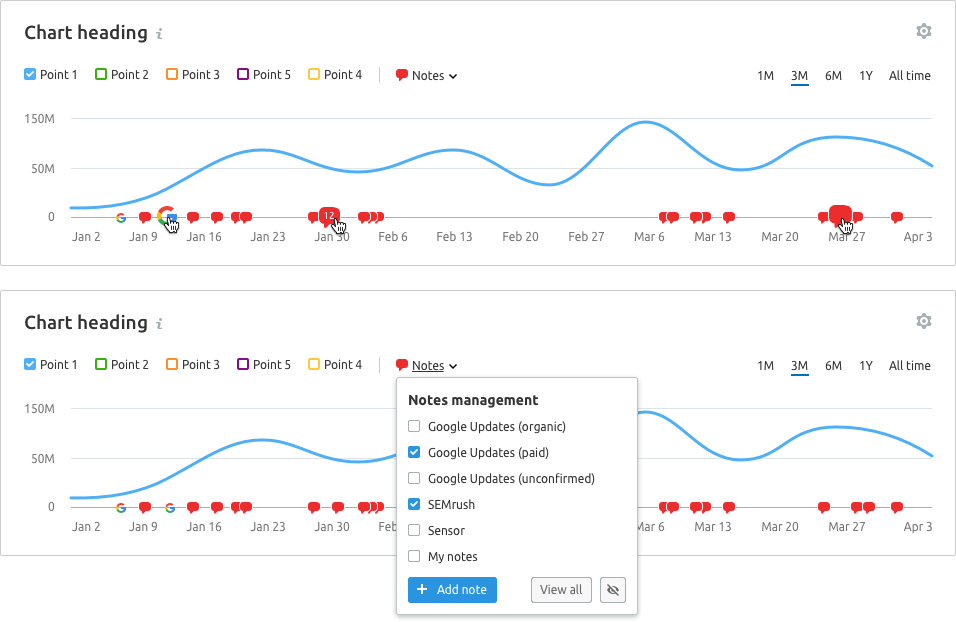
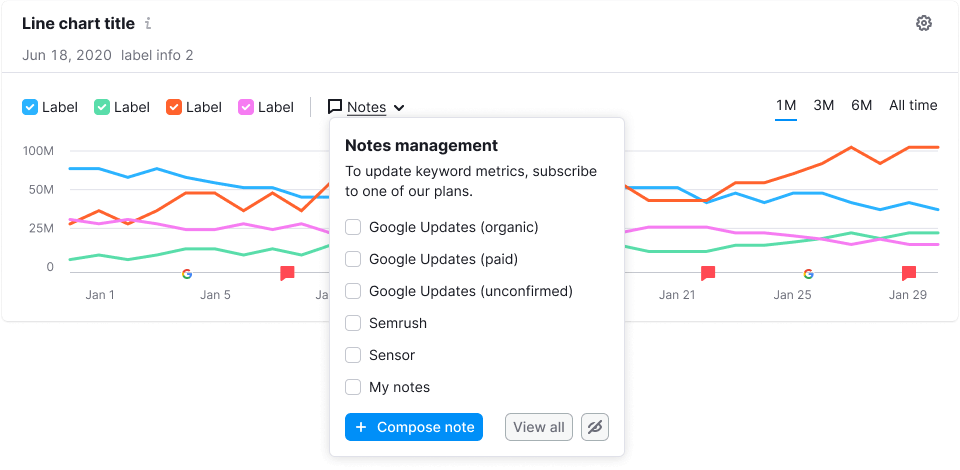
[website] update dropdown-menu and notes guide

diff --git a/website/docs/data-display/notes/notes.md b/website/docs/data-display/notes/notes.md
@@ -1,5 +1,5 @@
 ---
-title: Notes widget
+title: Notes module
 tabName: Design
 docs: true
 ---
@@ -8,44 +8,50 @@ docs: true
 
 @## Description
 
-**Notes** is a tool for creating notes and displaying them in charts.
+**Notes** is a module for creating notes and displaying them in charts.
 
 - Notes can be created by the user, system, or other services. You can make an unlimited number of notes for a single date.
-- It is recommended to place a control for managing notes above the chart — on the left side or right side depending on the context and the controls located next to it.
-- _In exceptional cases it is possible to place it under the graph._
+- We recommended you to place a trigger for managing notes above the chart.
+- _In exceptional cases place it under the chart._
 
 @## Appearance
 
-This tool has two types of being displayed.
+You can display the module in compact or advanced variant.
 
-**To mark notes, use:**
+@## Compact (in DropdownMenu)
 
-- `ChatXS` icon in color `--red` with a 1px white outline for user and system notes;
-- icon with the logo of the corresponding service with a white border 1px, if the note is generated by a third-party service.
-
-There may be a 10px counter inside the note icon, which is visible when you hover over the icon.
-
-@## Compact (in dropdown menu)
-
-In this form, all Notes settings are hidden in the dropdown menu, where you can enable/disable the display of notes on the chart, add a note, and change other settings.
+In this variant, all Notes settings are hidden in the [DropdownMenu](/components/dropdown-menu/), where you can enable/disable notes on the chart, compose a note, and change other settings.
 
 ![compact notes in dropdown](static/notes-compact.png)
 
 @## Advanced
 
-If there is enough space next to the chart and to the extend that this is required for the user's main tasks, all the main controls for managing notes can be removed from the dropdown.
+If there is enough space next to the chart and composing notes is one of the user's main tasks, all the main controls for managing notes can be removed from the dropdown.
 
-In any case, it is better to hide additional settings in the settings button, so as not to overload the chart.
+In any case, it is better to hide additional settings in the settings button. It helps not to overload the chart.
 
 ![advanced notes](static/notes-advanced.png)
 
+@## Notes icon
+
+**To mark notes, use:**
+
+- `ChatFilled` icon with M size and `--red-400` color for user and system notes. There may be a 12px text counter inside the `ChatFilled` icon, which is visible when you hover and click the icon;
+- Icon with the logo of the corresponding service with a white 1px outline border, if the note is generated by a third-party service.
+
 @## Interaction
 
-- **When hovering over the note icon on the chart axis, the icon is increased in size by two times.**
-- `ChatXS` increases to the size of the `ChatM` icon.
+- **When hovering over the note icon on the chart axis, the icon is increased in size from 16px to 24px.**
+- `ChatFilled` icon increases from M to L size.
 
-When clicking on the `+ Add` or `+ Add note` button, a modal window opens with the inputs for entering note parameters.
+After clicking on the "+ Compose" or "+ Compose note" buttons, a modal window opens with the inputs for entering note parameters.
 
 ![add notes modal](static/notes-add-modal.png)
+
+@## Note preview
+
+After clicking the note icon show dropdown with all the notes parameters.
+
+![note preview](static/notes-dropdown.png)
 
 > For more information about other controls that can be placed next to charts please see [Chart controls](/data-display/chart-controls/).

diff --git a/website/docs/components/dropdown-menu/dropdown-menu.md b/website/docs/components/dropdown-menu/dropdown-menu.md
@@ -1,5 +1,5 @@
 ---
-title: Dropdown-menu
+title: DropdownMenu
 fileSource: dropdown-menu
 tabName: Design
 ---
@@ -8,7 +8,7 @@ tabName: Design
 
 > 💡 See description of trigger and examples in [Select/Multiselect](/components/select/).
 
-**Dropdown-menu** is a component for displaying the dropdown list and its nested items.
+**DropdownMenu** is a component for displaying the dropdown list and its nested items.
 
 @## Sizes of the list
 
